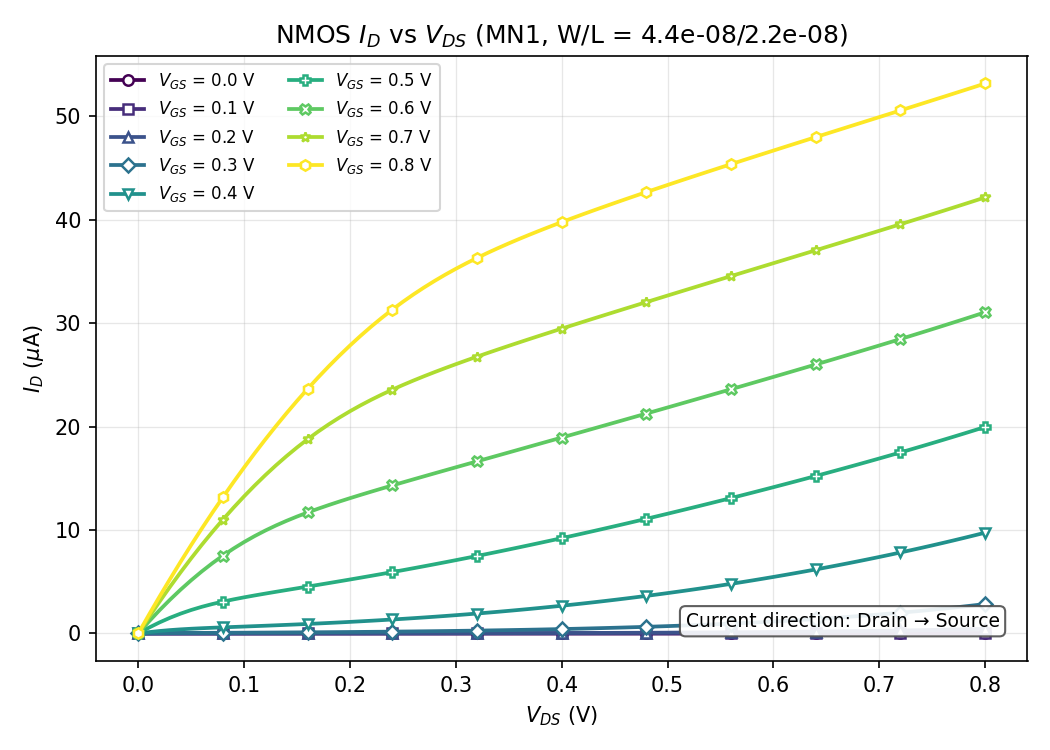
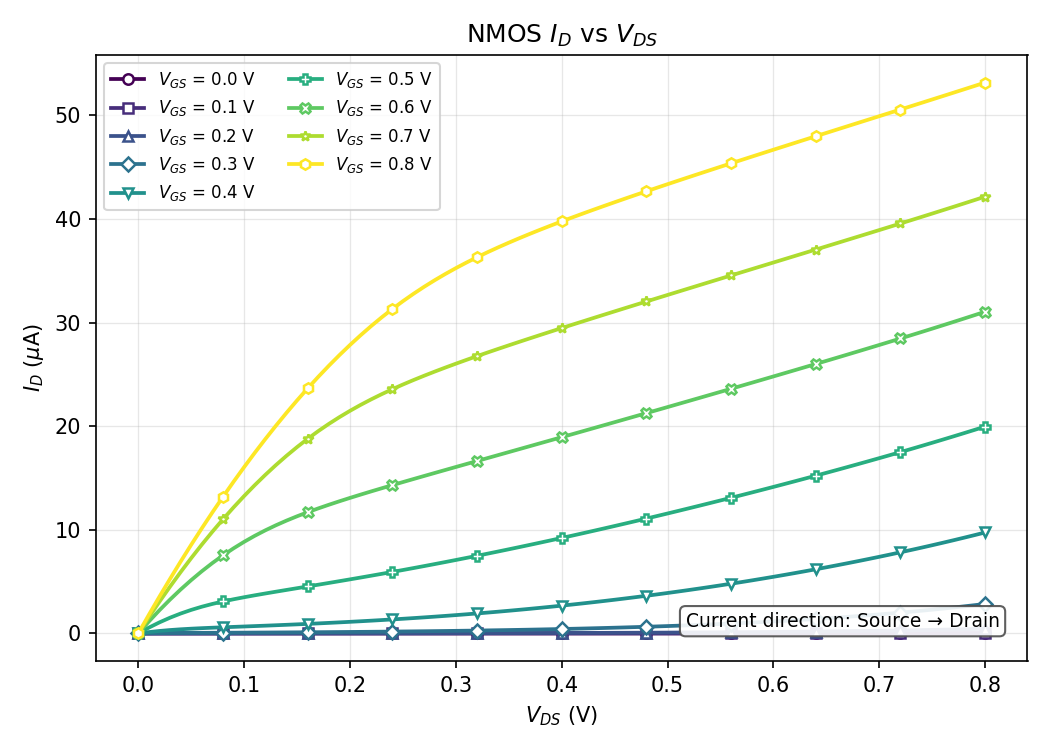
Label current direction as source-to-drain for both devices, trim plot titles
Per request, both plots now read "Current direction: Source -> Drain"
(overriding the standard drain-to-source NMOS convention used in the
prior commit). Also drop the W/L sizing detail from plot titles since
it's redundant with the netlist/report text.

Claude-Session: https://claude.ai/code/session_01F36KjKzhkbqWfn9zbV8tPj

diff --git a/lab3/lab3.md b/lab3/lab3.md
@@ -3,7 +3,7 @@
 Technology: 22nm PTM-HP\
 Nominal VDD = 0.8 V\
 k = 1.3 (Wp/Wn), Wn = 44nm, Wp = k\*Wn (from Lab 1)\
-Single PMOS (`MP1`) and single NMOS (`MN1`) devices, each characterized separately with `VGATE` and `VDRAIN` sweeping the gate and drain nodes. Plotted current direction follows the standard MOSFET reference convention: source-to-drain for PMOS, drain-to-source for NMOS.
+Single PMOS (`MP1`) and single NMOS (`MN1`) devices, each characterized separately with `VGATE` and `VDRAIN` sweeping the gate and drain nodes. Plotted current direction is source-to-drain for both devices.
 
 ## Lab 3.0
 ### Drain current vs. VDS, family of curves over VGS
